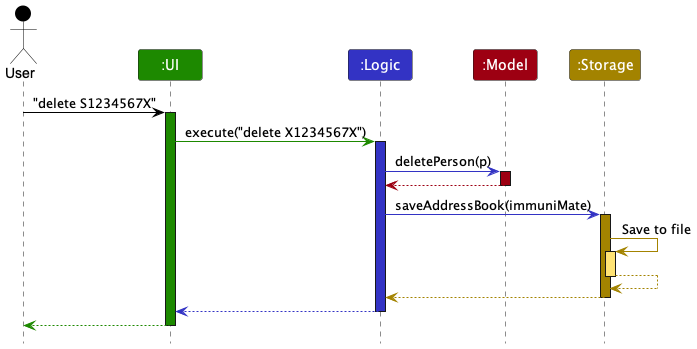
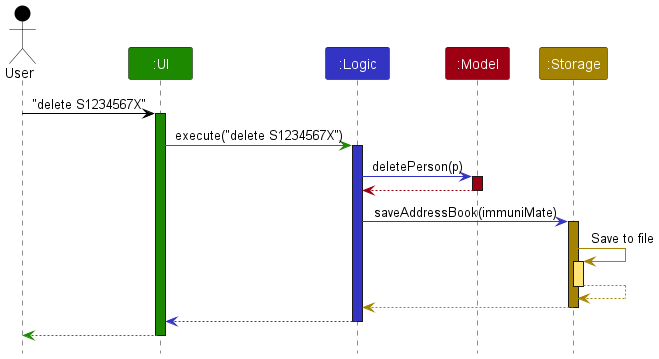
Fix format issues, add implementation of find and cluster commands

diff --git a/docs/DeveloperGuide.md b/docs/DeveloperGuide.md
@@ -51,7 +51,7 @@ The bulk of the app's work is done by the following four components:
 
 **How the architecture components interact with each other**
 
-The *Sequence Diagram* below shows how the components interact with each other for the scenario where the user issues the command `delete 1`.
+The *Sequence Diagram* below shows how the components interact with each other for the scenario where the user issues the command `delete S1234567X`.
 
 <img src="images/ArchitectureSequenceDiagram.png" width="574" />
 
@@ -91,7 +91,7 @@ Here's a (partial) class diagram of the `Logic` component:
 
 <img src="images/LogicClassDiagram.png" width="550"/>
 
-The sequence diagram below illustrates the interactions within the `Logic` component, taking `execute("delete 1")` API call as an example.
+The sequence diagram below illustrates the interactions within the `Logic` component, taking `execute("delete S1234567X")` API call as an example.
 
 ![Interactions Inside the Logic Component for the `delete 1` Command](images/DeleteSequenceDiagram.png)
 
@@ -100,7 +100,7 @@ The sequence diagram below illustrates the interactions within the `Logic` compo
 
 How the `Logic` component works:
 
-1. When `Logic` is called upon to execute a command, it is passed to an `AddressBookParser` object which in turn creates a parser that matches the command (e.g., `DeleteCommandParser`) and uses it to parse the command.
+1. When `Logic` is called upon to execute a command, it is passed to an `ImmuniMateParser` object which in turn creates a parser that matches the command (e.g., `DeleteCommandParser`) and uses it to parse the command.
 2. This results in a `Command` object (more precisely, an object of one of its subclasses e.g., `DeleteCommand`) which is executed by the `LogicManager`.
 3. The command can communicate with the `Model` when it is executed (e.g. to delete a person).<br>
    Note that although this is shown as a single step in the diagram above (for simplicity), in the code it can take several interactions (between the command object and the `Model`) to achieve.
@@ -111,13 +111,13 @@ Here are the other classes in `Logic` (omitted from the class diagram above) tha
 <img src="images/ParserClasses.png" width="600"/>
 
 How the parsing works:
-* When called upon to parse a user command, the `AddressBookParser` class creates an `XYZCommandParser` (`XYZ` is a placeholder for the specific command name e.g., `AddCommandParser`) which uses the other classes shown above to parse the user command and create a `XYZCommand` object (e.g., `AddCommand`) which the `AddressBookParser` returns back as a `Command` object.
-* All `XYZCommandParser` classes (e.g., `AddCommandParser`, `DeleteCommandParser`, ...) inherit from the `Parser` interface so that they can be treated similarly where possible e.g, during testing.
+* When called upon to parse a user command, the `ImmuniMateParser` class creates an `XYZCommandParser` (`XYZ` is a placeholder for the specific command name e.g., `CreateCommandParser`) which uses the other classes shown above to parse the user command and create a `XYZCommand` object (e.g., `CreateCommand`) which the `ImmuniMateParser` returns back as a `Command` object.
+* All `XYZCommandParser` classes (e.g., `CreateCommandParser`, `DeleteCommandParser`, ...) inherit from the `Parser` interface so that they can be treated similarly where possible e.g, during testing.
 
 ### Model component
 **API** : [`Model.java`](https://github.com/se-edu/addressbook-level3/tree/master/src/main/java/seedu/address/model/Model.java)
 
-<img src="images/ModelClassDiagram.png" width="450" />
+<img src="images/ModelClassDiagram.png" width="600" />
 
 
 The `Model` component,
@@ -150,7 +150,7 @@ Classes used by multiple components are in the `seedu.addressbook.commons` packa
 This section describes some noteworthy details on how certain features are implemented.
 
 ### List all patients
-#### Proposed Implementation
+#### Implementation
 
 The `list` feature allows users to view all patients in the system through the `list` command. This patient data is then displayed in the system for the user to have an overview of all patients.
 The `list` command is facilitated by `ListCommand` which extends the `Command` classes, listing all instances in the `Model`.
@@ -159,21 +159,24 @@ The `list` command is facilitated by `ListCommand` which extends the `Command` c
 * `Model#updateFilteredPersonList()` is called to make the UI display all patients in the system.
 
 Step 1. `ListCommand#execute` is called by the `LogicManager`. The `ListCommand` calls `model.updateFilteredPersonList()` to update the filtered list of patients in the system.
+
 Step 2. `Model#updateFilteredPersonList(PREDICATE_SHOW_ALL_PERSONS)` is called to update the filtered list such that it shows all patients in the system. 
+
 Step 3. The `ListCommand` returns the appropriate `CommandResult` to indicate the success of the operation.
 
 ### Help
-#### Proposed Implementation
+#### Implementation
 
 The `help` feature allows users to view the link to User Guide. This command is facilitated by `HelpCommand` which extends the `Command` classes.
 
 * `HelpCommand#execute` is responsible for executing the command and listing the link to the User Guide.
 
 Step 1. Parser interprets the user's input and creates a new `HelpCommand` instance.
+
 Step 2. `HelpCommand#execute` is called by the `LogicManager`. The `HelpCommand` returns the appropriate `CommandResult`, which signals the UI to display the help window .
 
 ### Create new patient
-#### Proposed Implementation
+#### Implementation
 
 The `create` feature allows users to create a patient by providing input through a command with specific arguments. This patient data is then stored within the system for future reference.
 The `create` command is facilitated by `CreateCommand` and `CreateCommandParser`. They extend the `Command` and `Parser` classes respectively, storing a new instance of `Person` in the `UniquePersonList`.
@@ -197,13 +200,14 @@ Step 2. The `CreateCommand#execute` is called by the `LogicManager`. The `Create
 Step 3. If there is no duplicate, the patient is added to the system by calling `model.addPerson(person)`.
 
 Step 4: After the patient is added, the `CreateCommand` returns the appropriate `CommandResult` to indicate the success of the operation.
-The following sequence diagram shows how a create operation goes through the Logic component:
+
+The following sequence diagram shows how a create operation goes through the `Logic` component:
 ![CreateState1](images/CreateCommandLogic.png)
-Similarly, the following sequence diagram shows how a create operation goes through the Model component:
+Similarly, the following sequence diagram shows how a create operation goes through the `Model` component:
 ![CreateState1](images/CreateCommandModel.png)
 
 ### Delete patient
-#### Proposed Implementation
+#### Implementation
 
 The `delete` feature allows users to delete a patient by providing NRIC through a command. This patient data is then removed from the system.
 The `delete` command is facilitated by `DeleteCommand` and `DeleteCommandParser`. They extend the `Command` and `Parser` classes respectively, removing an instance of `Person` from the `UniquePersonList`.
@@ -217,16 +221,18 @@ The `delete` command is facilitated by `DeleteCommand` and `DeleteCommandParser`
 * `ModelManager#hasPerson(Person)` is called to check if the patient already exists in the system. It calls `ImmuniMate.hasPerson(Person)` which calls `UniquePersonList#contains(Person)` to check if the patient already exists in the internal list of patients.
 
 Step 1. `DeleteCommandParser` interprets the user's input for NRIC, and creates a new `DeleteCommand` instance.
+
 Step 2. The `DeleteCommand#execute` is called by the `LogicManager`. The `DeleteCommand` checks if the patient exists in the system by calling `model.hasPerson(person)`.
+
 Step 3. If the patient exists, the patient is removed from the system by calling `model.deletePerson(person)`.
+
 Step 4: After the patient is removed, the `DeleteCommand` returns the appropriate `CommandResult` to indicate the success of the operation.
 
-The following sequence diagram shows how a delete operation goes through the Logic component:
+The following sequence diagram shows how a delete operation goes through the `Logic` and `Model` component:
 ![DeleteState1](images/DeleteSequenceDiagram.png)
-How a delete operation goes through the Model component is very similar to that of the create operation, therefore the sequence diagram is omitted.
 
 ### Delete patient information
-#### Proposed Implementation
+#### Implementation
 
 The `deleteinfo` command allows users to delete a patient's particular field of information by providing NRIC and the field to be deleted through a command. 
 This `deleteinfo` command is facilitated by `DeleteInfoCommand` and `DeleteInfoCommandParser`. They extend the `Command` and `Parser` classes respectively, removing a particular field of information from the `Person` object.
@@ -239,18 +245,23 @@ This `deleteinfo` command is facilitated by `DeleteInfoCommand` and `DeleteInfoC
 * `ModelManager#hasPerson(Person)` is called to check if the patient already exists in the system. It calls `ImmuniMate.hasPerson(Person)` which calls `UniquePersonList#contains(Person)` to check if the patient already exists in the internal list of patients.
 
 Step 1. `DeleteInfoCommandParser` interprets the user's input for NRIC and the fields to be deleted, and creates a new `DeleteInfoCommand` instance.
+
 Step 2. The `DeleteInfoCommand#execute` is called by the `LogicManager`. The `DeleteInfoCommand` checks if the patient exists in the system by calling `model.hasPerson(person)`.
+
 Step 3. If the patient exists, the `DeleteInfoCommand` calls `model.setField` (where the field is the specified field to delete) to get the list of patients in the system.
+
 Step 4. `DeleteInfoCommand#execute` check which fields are to be deleted, and remove the field of information using `Person#setField(null)`. Where `Field` is the field to be deleted.
+
 Step 5: After the field of information is removed, the `DeleteInfoCommand` returns the appropriate `CommandResult` to indicate the success of the operation.
 
-The following sequence diagram shows how a deleteinfo operation goes through the Logic component:
+The following sequence diagram shows how a `deleteinfo` operation goes through the `Logic` component:
 ![DeleteInfoState1](images/DeleteInfoSequenceDiagram.png)
-The sequence diagram for how the deleteinfo operation goes through the Model Component is as the following:
+
+The sequence diagram for how the `deleteinfo` operation goes through the `Model` Component is as the following:
 ![DeleteInfoState1](images/DeleteInfoModelDiagram.png)
 
 ### Read a patient's information
-#### Proposed Implementation
+#### Implementation
 The `read` feature allows users to read a patient profile by providing NRIC through a command. This patient data is then displayed.
 The `read` command is facilitated by `ReadCommand` and `ReadCommandParser`. They extend the `Command` and `Parser` classes respectively, displaying patient profile from an instance of `Person` from the `UniquePersonList`.
 
@@ -261,22 +272,44 @@ The `read` command is facilitated by `ReadCommand` and `ReadCommandParser`. They
 * `Model#updateFilteredPersonList(Predicate)` and is called to update the list to be of patient with specified NRIC in the system.
 * `Model#getFilteredPersonList()` is called to get the list of patient with specified NRIC in the system.
 * `Observablelist<Persons>#get(int)` is called to obtain `Person` object of patient with speicified NRIC.  
+
 Step 1. `ReadCommandParser` interprets the user's input for NRIC, and creates a new `ReadCommand` instance.
+
 Step 2. The `ReadCommand#execute` is called by the `LogicManager`. The `ReadCommand` checks if the patient exists in the system by calling `model.hasPerson(person)`.
+
 Step 3. If the patient exists, the patient is obtained from the system by calling `model.updateFilteredPersonList(person)`, followed by calling `model.getFilteredPersonList()` and `Observablelist<Persons>#get(int)`.
+
 Step 4: After the patient is obtained, the `ReadCommand` formats the patient profile by calling `Messages.format(person)` and returns the appropriate `CommandResult` to indicate the success of the operation.
 
-The following sequence diagram shows how a delete operation goes through the Logic component:
+The following sequence diagram shows how a `read` operation goes through the `Logic` component:
 ![ReadState1](images/ReadCommandSequenceDiagram.png)
-How a read operation goes through the Model component is shown below:
+
+How a `read` operation goes through the `Model` component is shown below:
 ![ReadState2](images/ReadCommandModelDiagram.png)
 
-
 ### Find patient
-#### Proposed Implementation
+#### Implementation
+
+The `find` feature lets users find patients with certain values in various fields, namely `name`, `address` and `condition`.
+After a command with specific arguments as input, the patient list is filtered and the resultant list is shown.
+
+The `find` command is facilitated by `FindCommand` and `FindCommandParser`, extending the `Command` and `Parser` classes respectively.
+* `FindCommandParser#parse` is responsible for parsing the user input and creating a new `FindCommand` instance.
+* `FindCommand#execute` is responsible for executing the command, calling `ModelManager#updateFilteredPersonList(Predicate<Person>)` to find patients with the given keywords in the given field.
+
+Step 1. `FindCommandParser` interprets the user's input, determine which field the user wishes to find patients by, and creates a new `FindCommand` instance.
+
+Step 2. The `FindCommand#execute` is called by the `LogicManager`.
+
+Step 3. This in turn calls `model.updateFilteredPersonList(Predicate<Person>)`, which identifies patients having any of the keywords in `Predicate<Person>` in the given field.
+
+Step 4: The `FindCommand` returns the appropriate `CommandResult` to indicate the success of the operation.
+
+The following sequence diagram shows how a `find` operation goes through the `Logic` and `Model` components:
+![ReadState1](images/FindLogicModelDiagram.png)
 
 ### Update patient fields
-#### Proposed Implementation
+#### Implementation
 Given below is an example usage scenario and how the update mechanism behaves at each step.
 
 Step 1. The user launches the application for the first time.
@@ -293,20 +326,17 @@ Step 6. `model.getFilteredPersonsList()` retrieves the list of `Person`s stored,
 
 Step 7. `model.setPerson()` then replaces the retrieved `Person` object with the new `Person` object with fields updated, taking in both `Person` objects as arguments. The `model` is then saved into `storage`.
 
-#### Design considerations:
+The following sequence diagram shows how an `update` operation goes through the `Logic` components:
+![ReadState1](images/UpdateLogicDiagram.png)
 
-* **Alternative 1 (current choice):** Identify patient by `Nric`.
-    * Pros: More user convenience, as user just needs to type NRIC patients provide
-
-* **Alternative 2:** Identify patient by given `Index`.
-    * Pros: Easier to implement.
-    * Cons: Less user convenience, as user has to first know patient `Index` to find patient.
+How an `update` operation goes through the `Model` component is shown below:
+![ReadState2](images/UpdateModelDiagram.png)
 
 ### Record patient visit
-#### Proposed Implementation
+#### Implementation
 
 ### Check a patient's visit history
-#### Proposed Implementation
+#### Implementation
 The `check` feature allows users to check the visit history of a patient by providing NRIC through a command. This patient visit history is then displayed.
 The `check` command is facilitated by `CheckCommand` and `CheckCommandParser`. They extend the `Command` and `Parser` classes respectively, displaying patient visit history from list of `Visit` from the `UniqueVisitList`.
 
@@ -316,25 +346,49 @@ The `check` command is facilitated by `CheckCommand` and `CheckCommandParser`. T
 * `ModelManager#hasPerson(Person)` is called to check if the patient exists in the system. It calls `ImmuniMate.hasPerson(Person)` which calls `UniquePersonList#contains(Person)` to check if the patient already exists in the internal list of patients.
 * `Model#updateFilteredPersonList(Predicate)` is called to get the list of patient with specified NRIC in the system.
 * `Model#updateFilteredVisitList(Predicate)` is called to get the list of visits with specified NRIC in the system.
-  Step 1. `CheckCommandParser` interprets the user's input for NRIC, and creates a new `CheckCommand` instance.
-  Step 2. The `CheckCommand#execute` is called by the `LogicManager`. The `CheckCommand` checks if the patient exists in the system by calling `model.hasPerson(person)`.
-  Step 3. If the patient exists, the patient is obtained from the system by calling `model.updateFilteredPersonList(pred)`, followed by calling `model.getFilteredPersonList()` and `Observablelist<Persons>#get(int)`.
-  Step 4: Patient visit history is obtained from the system by calling `model.updateFilteredVisitList(pred)`, followed by `model.getFilteredVisitList()`.
-  Step 5: After the patient visit history is obtained, the `CheckCommand` formats the patient visit history by calling `Messages.formatCheck(visit)` and returns the appropriate `CommandResult` to indicate the success of the operation.
+  
+Step 1. `CheckCommandParser` interprets the user's input for NRIC, and creates a new `CheckCommand` instance. 
 
-The following sequence diagram shows how a delete operation goes through the Logic component:
+Step 2. The `CheckCommand#execute` is called by the `LogicManager`. The `CheckCommand` checks if the patient exists in the system by calling `model.hasPerson(person)`.
+
+Step 3. If the patient exists, the patient is obtained from the system by calling `model.updateFilteredPersonList(pred)`, followed by calling `model.getFilteredPersonList()` and `Observablelist<Persons>#get(int)`.
+
+Step 4: Patient visit history is obtained from the system by calling `model.updateFilteredVisitList(pred)`, followed by `model.getFilteredVisitList()`.
+
+Step 5: After the patient visit history is obtained, the `CheckCommand` formats the patient visit history by calling `Messages.formatCheck(visit)` and returns the appropriate `CommandResult` to indicate the success of the operation.
+
+The following sequence diagram shows how a delete operation goes through the `Logic` component:
 ![ReadState1](images/CheckCommandSequenceDiagram.png)
-How a check operation goes through the Model component is shown below:
+How a check operation goes through the `Model` component is shown below:
 ![ReadState2](images/CheckCommandModelDiagram.png)
 
-### Check for clusters
-#### Proposed Implementation
+### Cluster Identification
+#### Implementation
+
+The `cluster` feature tells users if a certain location has a certain number of patients unwell with an illness.
+Provided an integer, location and disease as inputs, it finds unwell patients having an address with the given location as a substring, and diagnosis with the given illness as a substring, and informs the user if the number of those patients is at least that integer.
+The `cluster` command is facilitated by `ClusterCommand` and `ClusterCommandParser`, extending the `Command` and `Parser` classes respectively, storing a new instance of `Person` in the `UniquePersonList`.
+
+* `ClusterCommandParser#parse` is responsible for parsing the user input and creating a new `ClusterCommand` instance.
+* `ClusterCommand#execute` is responsible for executing the command and separating the inputs into their categories (cluster size, address and illness). It calls `ModelManager#updateFilteredPersonList(Predicate<Person>)` to find patients which satisfy the given criteria.
+
+Step 1. `ClusterCommandParser` interprets the user's input, and separates it into its constituent categories, and creates a new `ClusterCommand` instance.
+
+Step 2. The `ClusterCommand#execute` is called by the `LogicManager`.
+
+Step 3. This in turn calls `model.updateFilteredPersonList(Predicate<Person>)`, takes the location and illness keywords in `Predicate<Person>`, and finds all the patients which have them as substrings in their addresses and diagnoses respectively.
+
+Step 4. This also calls `model.getFilteredPersonList().size()` to obtain the size of the patient group satisfying the given criteria.
+
+Step 5: The `ClusterCommand` returns the appropriate `CommandResult` to indicate the success of the operation.
+
+The following sequence diagram shows how a `cluster` operation goes through the `Logic` and `Model` components:
+![ReadState1](images/ClusterLogicModelDiagram.png)
 
 ### Exit the app
-#### Proposed Implementation
+#### Implementation
 
 
-#### Design considerations:
 
 --------------------------------------------------------------------------------------------------------------------
 
@@ -390,7 +444,7 @@ Priorities: High (must have) - `* * *`, Medium (nice to have) - `* *`, Low (unli
 | `*`     | Healthcare Worker | see the close contacts of a patient             | see the links between infected patients                                      |
 ### Use cases
 
-(For all use cases below, the **System** is the `AddressBook` and the **Actor** is the `user`, unless specified otherwise)
+(For all use cases below, the **System** is `ImmuniMate` and the **Actor** is the `user`, unless specified otherwise)
 
 **Use Case: UC01 - Create Patient Record**
 
